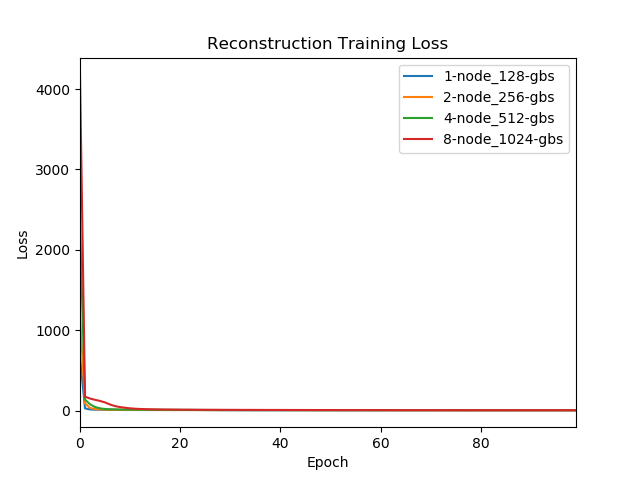
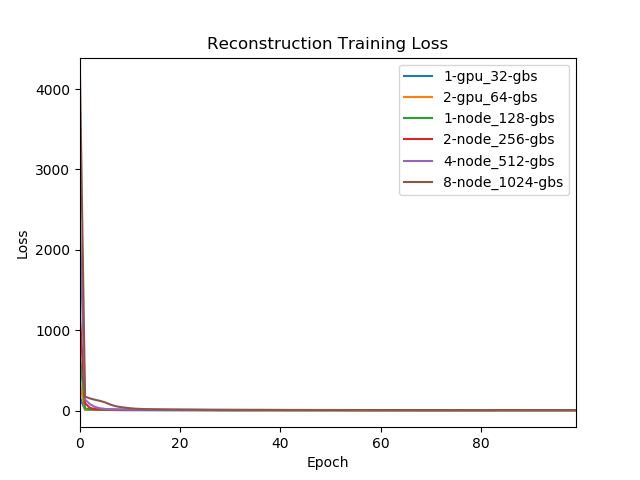
1-gpu, 2-gpu training results

diff --git a/ddp_aae_experiments/generate_loss_curves.py b/ddp_aae_experiments/generate_loss_curves.py
@@ -5,6 +5,8 @@ import matplotlib.pyplot as plt
 
 if __name__ == "__main__":
     paths = [
+        "/scratch/06079/tg853783/ddmd/runs/ddp_aae_experiments/1-gpu_32-gbs",
+        "/scratch/06079/tg853783/ddmd/runs/ddp_aae_experiments/2-gpu_64-gbs",
         "/scratch/06079/tg853783/ddmd/runs/ddp_aae_experiments/1-node_128-gbs",
         "/scratch/06079/tg853783/ddmd/runs/ddp_aae_experiments/2-node_256-gbs",
         "/scratch/06079/tg853783/ddmd/runs/ddp_aae_experiments/4-node_512-gbs",
